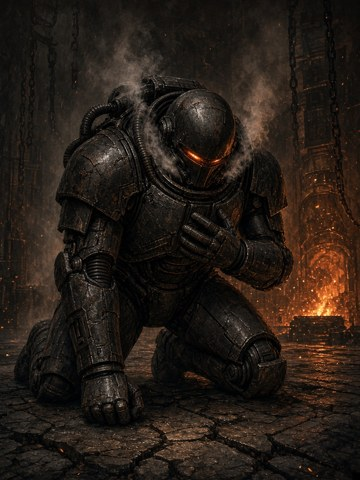
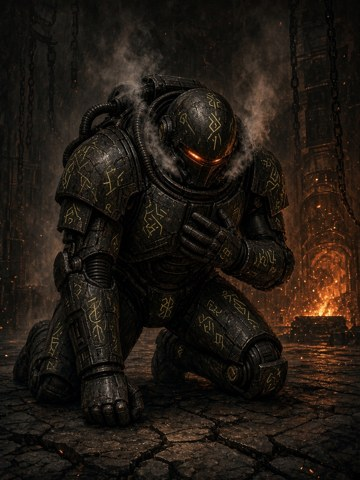
COL-MAR-004 runes

diff --git a/index.html b/index.html
@@ -267,7 +267,7 @@ body {
   </div>
 </div>
 
-<script src="cards-abbadon.js?v=custodes-helm"></script>
+<script src="cards-abbadon.js?v=custodes-runes"></script>
 <script>
 (function () {
   const grid = document.getElementById('grid');
